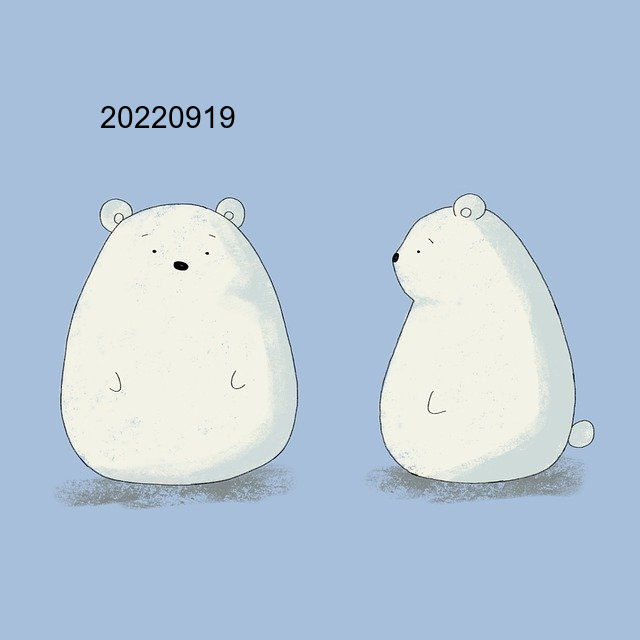
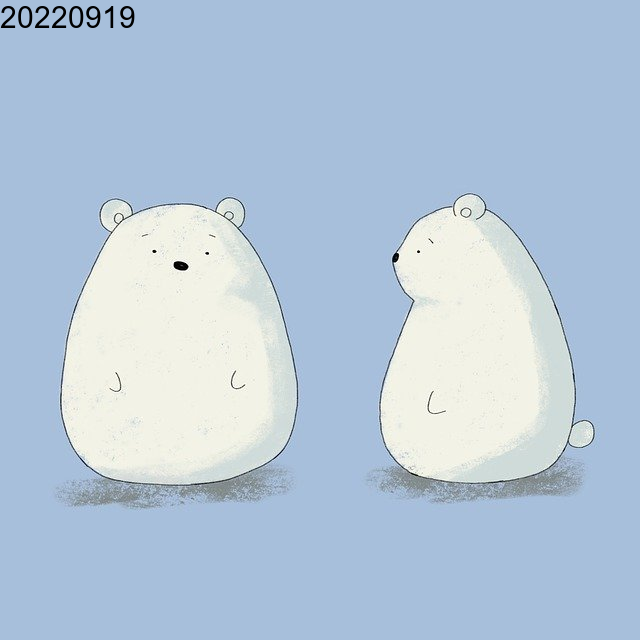
sung

Changed region(s): [[0.1562, 0.1562, 0.375, 0.2188], [0.0, 0.0, 0.2188, 0.0625]]

diff --git a/team/start/app.py b/team/start/app.py
@@ -1,12 +1,12 @@
 from PIL import Image, ImageDraw, ImageFont
                     #(가로, 세로)
-img = Image.new("RGBA", (100,100), 0)
+img = Image.new("RGBA", (100,100), 0) #워터마크 생성
 
 soimg = Image.open(f"./img/so/2.jpg")
 
 fnt = ImageFont.truetype("arial.ttf", 30)
 
-draw = ImageDraw.Draw(soimg)
+draw = ImageDraw.Draw(soimg) #원본 이미지
         #(좌표 : x, y)
 draw.text((0,0), "20220919", font=fnt, fill=(0,0,0))
 
